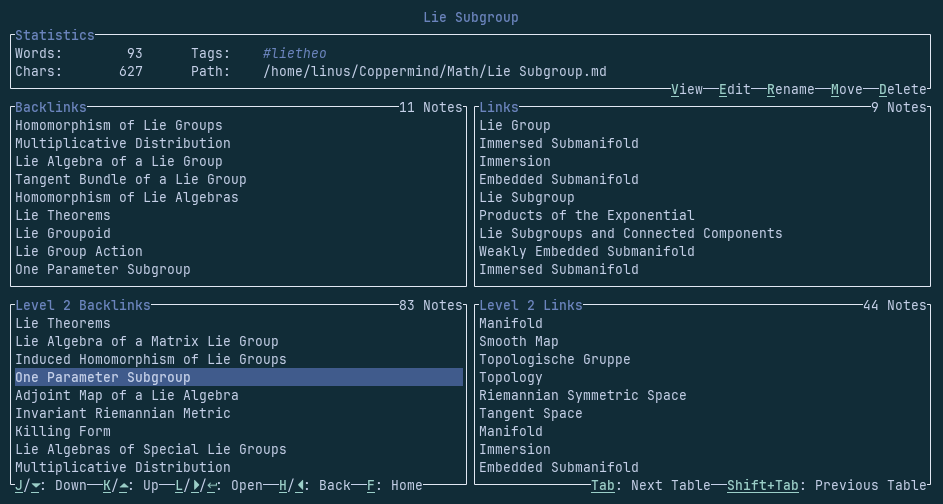
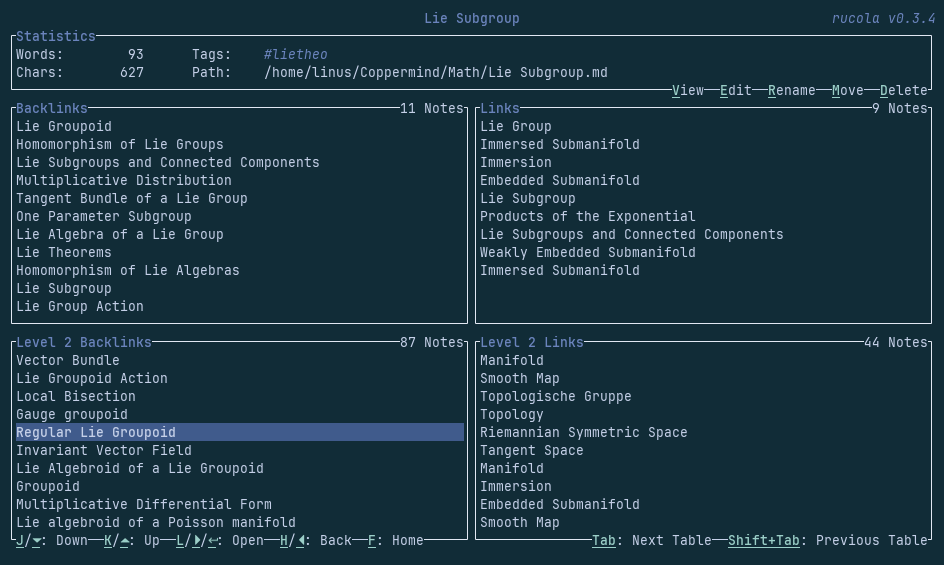
Updated images

Changed region(s): [[0.0, 0.0298, 0.9841, 0.9821]]

diff --git a/CHANGELOG.md b/CHANGELOG.md
@@ -1,4 +1,4 @@
-# Version 0.3.3 - Operating System Support
+# Version 0.3.4 - Operating System Support
  - Rucola can now be installed via homebrew
  - Added a title to the select screen
  - Added the current rucola version to both screens
